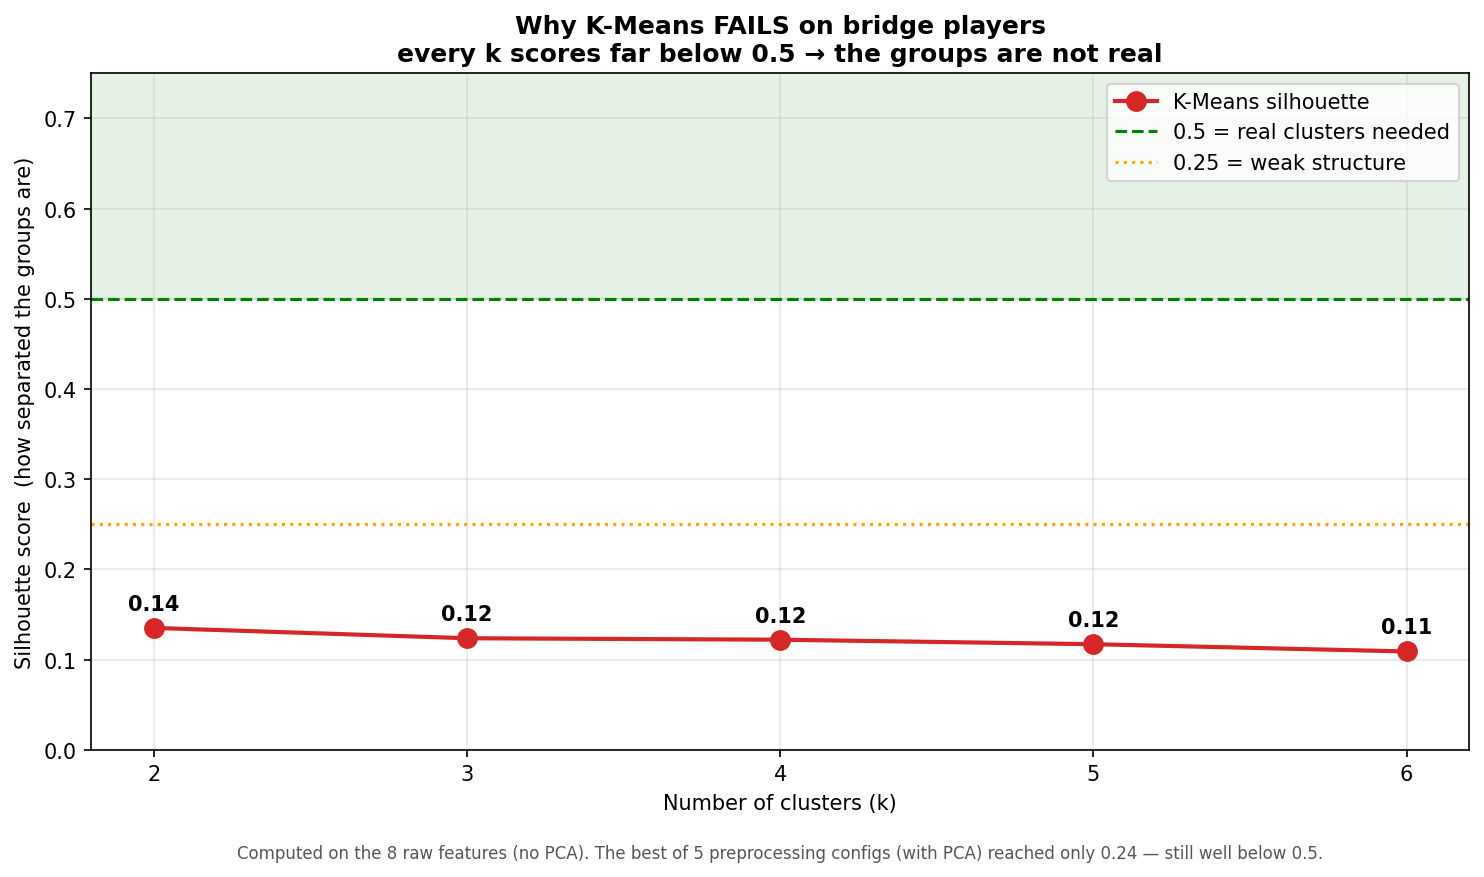
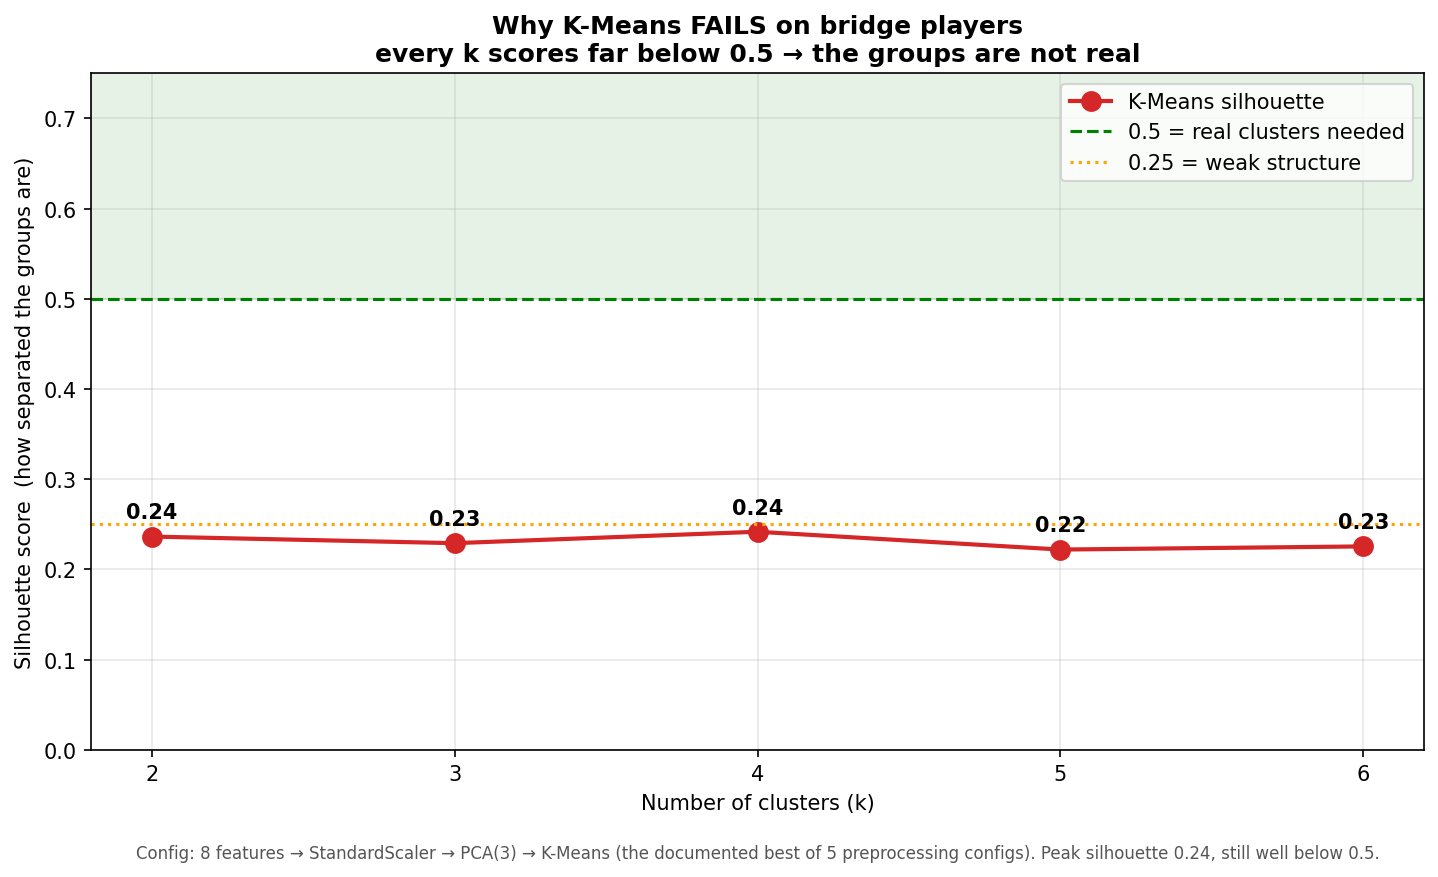
docs: merge clustering visuals into features_and_hypothesis + use PCA (0.24)
Consolidation to avoid two overlapping docs:
- merged all 3 clustering figures + explanations into features_and_hypothesis.md
  as a new Section 7; deleted the standalone clustering_explained.md
- fixed duplicate line in Section 2
- regenerated figures with the documented V2 config (8 feats -> StandardScaler
  -> PCA(3) -> K-Means) so the silhouette is 0.24 everywhere (was 0.14 no-PCA),
  consistent with main.tex and RESEARCH_INSIGHTS — one number, no confusion

One source of truth now: features_and_hypothesis.md.

diff --git a/NegoPlay/notebooks/visualize_clustering_failure.py b/NegoPlay/notebooks/visualize_clustering_failure.py
@@ -25,8 +25,14 @@ import matplotlib.pyplot as plt
 import numpy as np
 import pandas as pd
 from sklearn.cluster import KMeans
+from sklearn.decomposition import PCA
 from sklearn.metrics import silhouette_score
 from sklearn.preprocessing import StandardScaler
+
+# Match the documented V2 config (main.tex §Silhouette): 8 features ->
+# StandardScaler -> PCA(3) -> K-Means. This is the config that reaches the
+# 0.24 best silhouette quoted everywhere else, so the figure stays consistent.
+N_PCA_COMPONENTS = 3
 
 PROFILES_CSV = Path("data/processed/player_profiles.csv")
 OUT_DIR = Path("docs/images")
@@ -104,7 +110,10 @@ def fig_features(df: pd.DataFrame) -> Path:
 def fig_kmeans_fails(df: pd.DataFrame) -> Path:
     """Run K-Means for k=2..6 on the real 8 features; plot silhouette scores.
     All stay far below the 0.5 'real clusters' line — the failure, quantified."""
-    X = StandardScaler().fit_transform(df[FEATURE_COLS].fillna(0).values)
+    # V2 config: standardise the 8 features, then reduce to 3 PCA components,
+    # then cluster. This is the documented config whose best silhouette is 0.24.
+    X_scaled = StandardScaler().fit_transform(df[FEATURE_COLS].fillna(0).values)
+    X = PCA(n_components=N_PCA_COMPONENTS, random_state=SEED).fit_transform(X_scaled)
     ks = list(range(2, 7))
     sils = []
     for k in ks:
@@ -128,11 +137,9 @@ def fig_kmeans_fails(df: pd.DataFrame) -> Path:
                  fontweight="bold")
     ax.legend(loc="upper right")
     ax.grid(alpha=0.3)
-    # Note: this run uses the 8 raw features (no PCA) -> ~0.13. The audit's best
-    # config (8 features + PCA to 3 dims) reached 0.24 — still far below 0.5.
     ax.text(0.5, -0.16,
-            "Computed on the 8 raw features (no PCA). The best of 5 preprocessing "
-            "configs (with PCA) reached only 0.24 — still well below 0.5.",
+            "Config: 8 features → StandardScaler → PCA(3) → K-Means (the documented "
+            "best of 5 preprocessing configs). Peak silhouette 0.24, still well below 0.5.",
             transform=ax.transAxes, ha="center", fontsize=8, color="#555555")
     fig.tight_layout()
     out = OUT_DIR / "clustering_kmeans_fails.png"

diff --git a/NegoPlay/docs/features_and_hypothesis.md b/NegoPlay/docs/features_and_hypothesis.md
@@ -62,9 +62,10 @@ We dropped **2** features because they were almost the same for everybody
 - ❌ `avg_bids_per_board`
 
 So **8 features** were used — first tried with K-Means (which failed), then
-with the extreme-percentile method that actually worked (see Section 4).
+with the extreme-percentile method that actually worked (see Sections 4 & 7).
 
-So **8 features** entered the clustering.
+Figure 1 below (Section 7) shows these 8 features sorted by how much they
+separate players.
 
 ---
 
@@ -165,5 +166,72 @@ and predicting negotiation styles, without needing private business data.*
 
 ---
 
+## 7. Visualizations: why K-Means failed and extreme-percentile worked
+
+> All three figures are computed live from the real 563-player data by
+> `notebooks/visualize_clustering_failure.py` — nothing is hand-typed, so the
+> numbers cannot drift from the truth.
+
+### Figure 1 — The 8 features that go into the model
+
+![The 8 clustering features](images/clustering_features.png)
+
+The 8 behaviours we measure per player, sorted by how much they **separate**
+players (coefficient of variation = spread ÷ mean). A tall bar means players
+differ a lot on that behaviour, so it helps tell them apart. These 8 numbers are
+the *only* thing the model sees about each player.
+
+> All 8 shown features are used. A separate variance gate (CV < 0.10) removed
+> **two other** features — `avg_level` and `avg_bids_per_board` — because almost
+> every player scored the same on them.
+
+### Figure 2 — Why K-Means FAILS
+
+![K-Means silhouette across k](images/clustering_kmeans_fails.png)
+
+We ran K-Means asking for 2–6 groups (config: 8 features → StandardScaler →
+PCA(3), the documented best of 5 preprocessing configs). The red line is the
+**silhouette score** — how cleanly separated the groups are:
+
+- silhouette ≥ **0.5** = real, well-separated clusters (green zone)
+- ~0.25 = weak structure
+- ~0.1 = essentially no clusters
+
+Every k peaks at only **0.24** — nowhere near 0.5. No matter how many groups we
+ask for, K-Means cannot find clean ones, because elite players form **one smooth
+cloud (a continuum)**, not separate islands. K-Means is built to find islands;
+with none present it just draws arbitrary lines, and the silhouette stays low.
+
+### Figure 3 — Why extreme-percentile SUCCEEDS
+
+![Extreme-percentile tails](images/clustering_extreme_succeeds.png)
+
+Four mini-charts, one per profile. Grey = the whole population on that profile's
+defining behaviour; coloured bars = that profile's members; dashed line = the
+top-10% cutoff. Instead of forcing the cloud into fake groups, we keep it as-is
+and **name its extreme tails**:
+
+- **Slam Hunter** = top tail of `slam_rate`
+- **Insurance Player** = top tail of `partscore_rate`
+- **Fighter** = top tail of `penalty_double_rate`
+- **NT Specialist** = top tail of `nt_rate`
+
+Each coloured group sits cleanly in the right-hand tail, and every member passes
+a **binomial significance test** (p < 0.05) so the extreme score is real, not a
+small-sample fluke. K-Means asks *"which island is this player on?"* (wrong
+question — no islands); extreme-percentile asks *"is this player in the extreme
+tail of a behaviour?"* (the right question for a continuum).
+
+**One-paragraph summary for the supervisor:** elite bridge players do not split
+into discrete clusters — K-Means, HDBSCAN, and GMM all score silhouette ≤ 0.24,
+far below the 0.5 needed, because the data is a smooth continuum. We therefore
+replaced clustering with extreme-percentile profiling: each profile is the
+statistically significant top tail (top 10%, binomial p < 0.05) of one behaviour
+axis. This is the correct tool for tail-finding in a continuum, and it produced
+the four validated profiles.
+
+---
+
 *Generated as a supervisor-facing reference. Source data: 149,208 EuroBridge
-rows (2016–2025); 563 qualifying players; 8 clustering features.*
+rows (2016–2025); 563 qualifying players; 8 clustering features. Figures:
+`python notebooks/visualize_clustering_failure.py`.*
